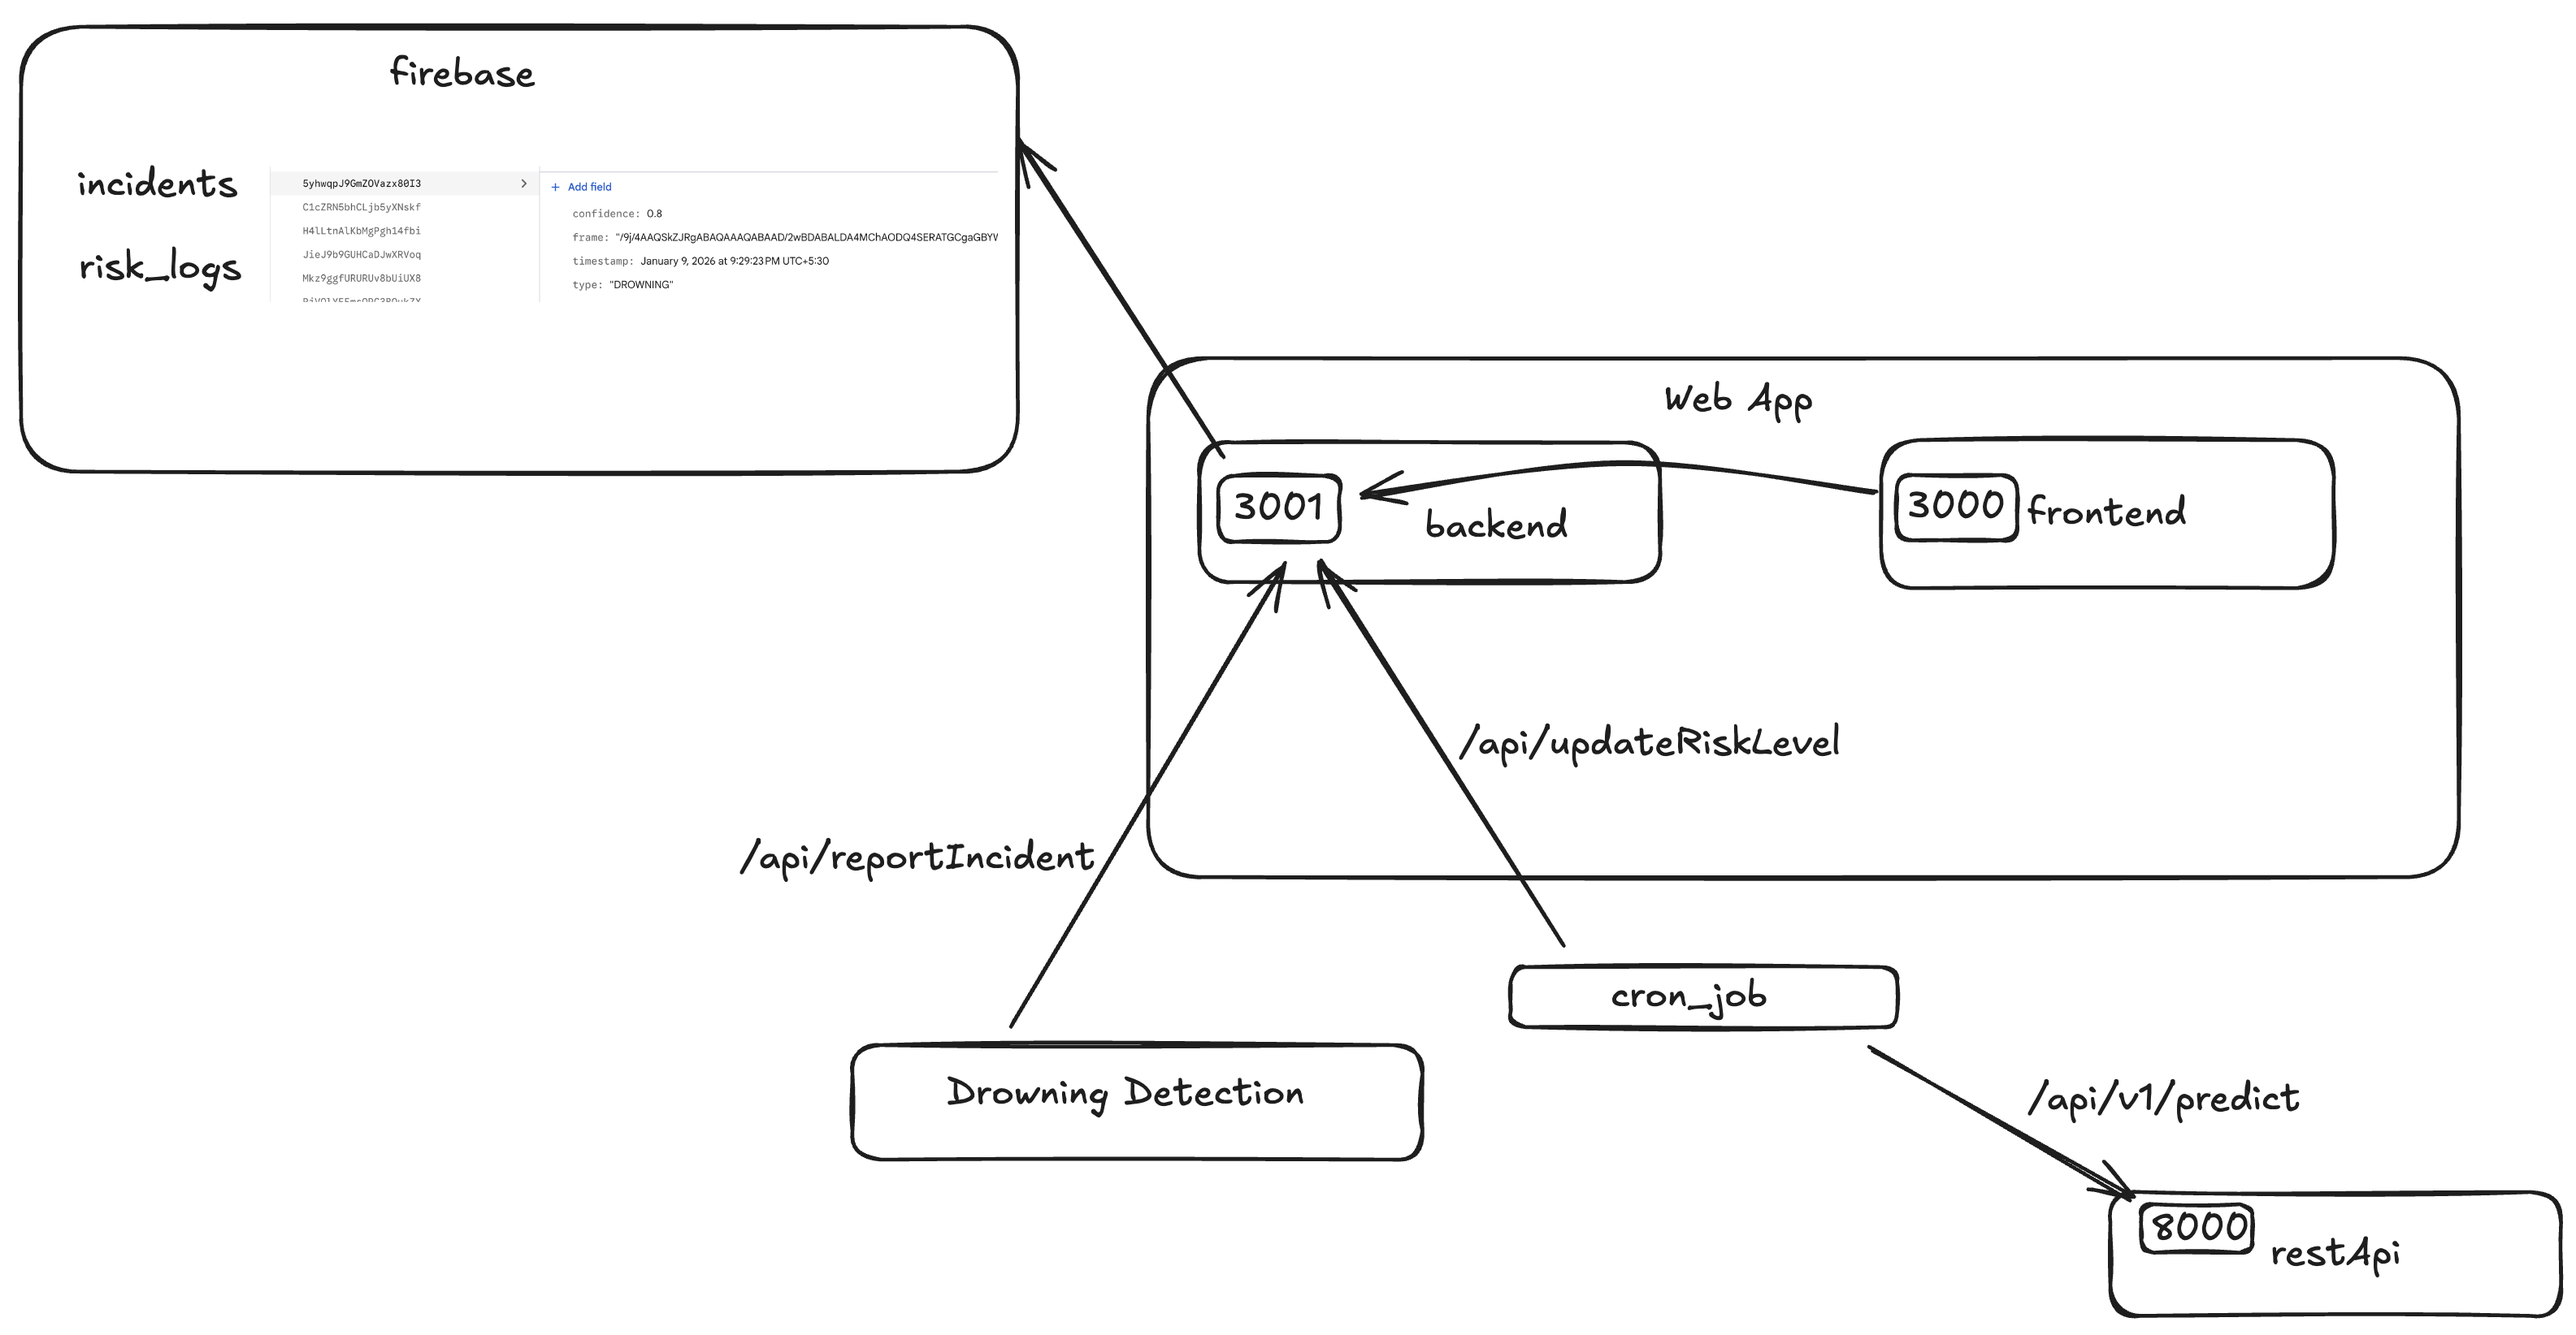
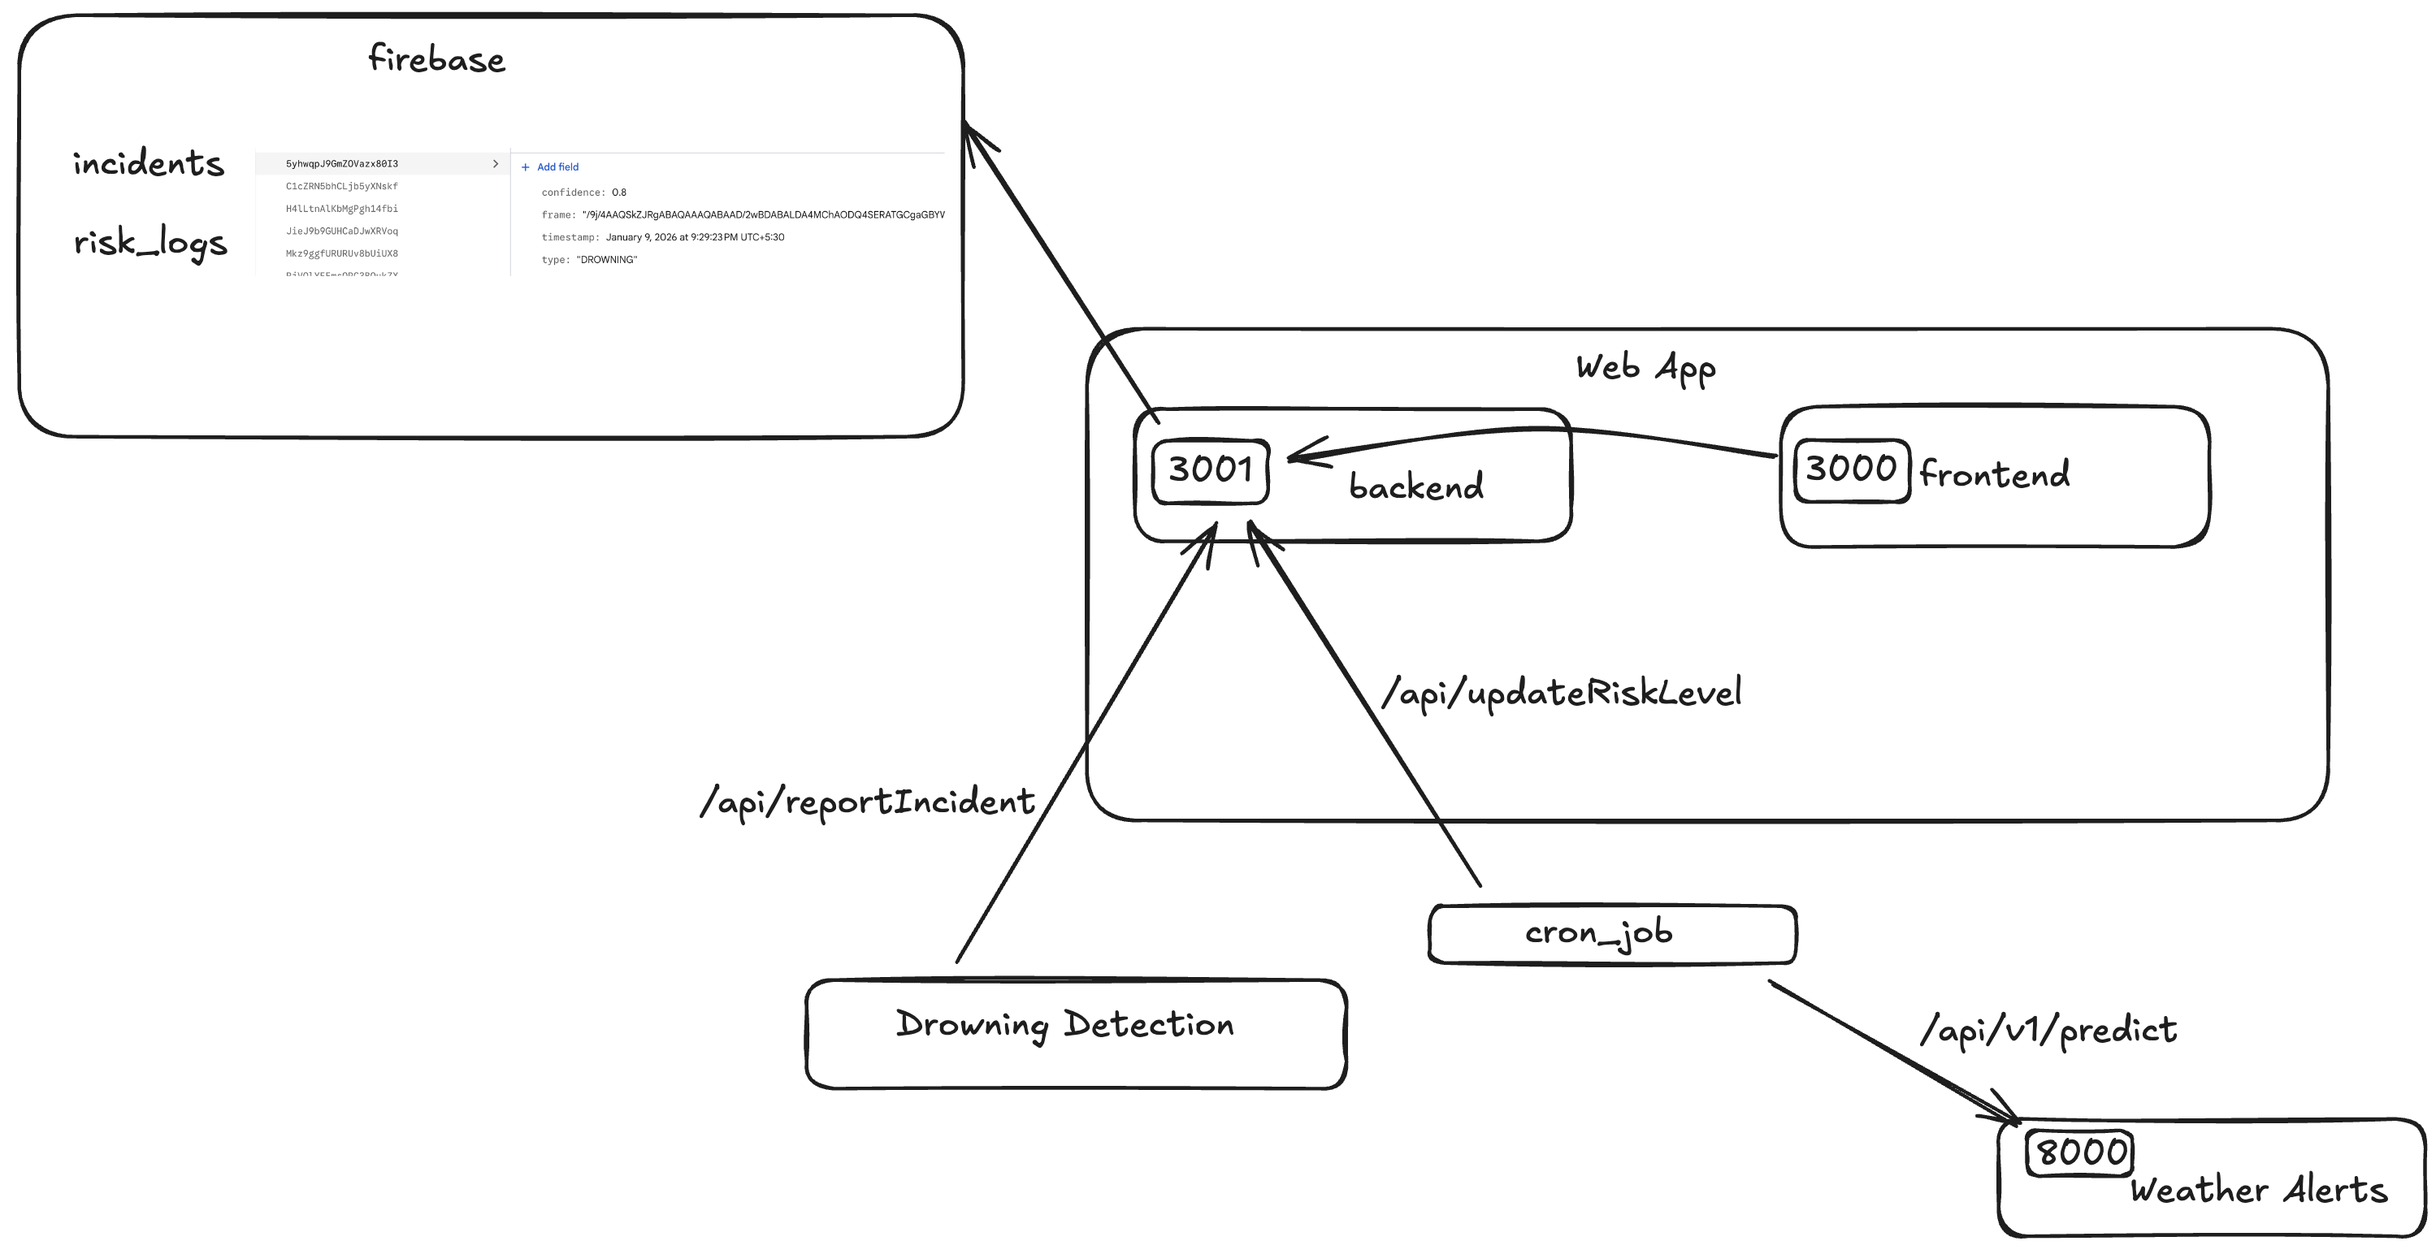
Modified Readme

diff --git a/frontend/app/components/StatusBar.jsx b/frontend/app/components/StatusBar.jsx
@@ -107,7 +107,9 @@ const StatusBar = () => {
           </span>
         </div>
       </div>
-      <div className="flex-1 hidden md:block"></div>
+      <div className="flex-1 hidden md:block">
+        <input
+      </div>
       <div className="flex items-center pl-6 py-2 min-w-max">
         <span className="font-mono text-3xl font-bold text-text-dark tracking-widest tabular-nums">
           {time}

diff --git a/backend/index.js b/backend/index.js
@@ -113,6 +113,7 @@ app.get("/api/getWeather", async (req, res) => {
   }
 });
 
+
 // Function to send Telegram Alert
 async function alertGroup(data) {
   const botToken = process.env.BOT_TOKEN;
